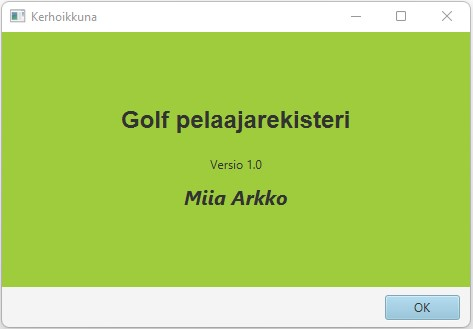
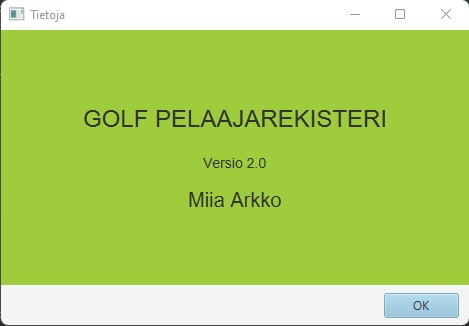
Kuvia

diff --git a/src/fxKerho/tietoja.css b/src/fxKerho/tietoja.css
@@ -1,0 +1,3 @@
+.vaaleaVihrea {
+	-fx-background-color: #9FCC3D;
+}

diff --git a/src/fxKerho/TietojaMain.java b/src/fxKerho/TietojaMain.java
@@ -1,0 +1,38 @@
+package fxKerho;
+
+import javafx.application.Application;
+import javafx.stage.Stage;
+import javafx.scene.Scene;
+import javafx.scene.layout.Pane;
+import javafx.fxml.FXMLLoader;
+
+
+/**
+ * @author miiaa
+ * @version 31.1.2023
+ *
+ */
+public class TietojaMain extends Application {
+    @Override
+    public void start(Stage primaryStage) {
+        try {
+            FXMLLoader ldr = new FXMLLoader(getClass().getResource("TietojaGUIView.fxml"));
+            final Pane root = ldr.load();
+            //final TietojaGUIController tietojaCtrl = (TietojaGUIController) ldr.getController();
+            Scene scene = new Scene(root);
+            scene.getStylesheets().add(getClass().getResource("tietoja.css").toExternalForm());
+            primaryStage.setScene(scene);
+            primaryStage.setTitle("Tietoja");
+            primaryStage.show();
+        } catch(Exception e) {
+            e.printStackTrace();
+        }
+    }
+
+    /**
+     * @param args Ei kaytossa
+     */
+    public static void main(String[] args) {
+        launch(args);
+    }
+}

diff --git a/src/fxKerho/TietojaGUIController.java b/src/fxKerho/TietojaGUIController.java
@@ -1,0 +1,10 @@
+package fxKerho;
+
+/**
+ * @author miiaa
+ * @version 31.1.2023
+ *
+ */
+public class TietojaGUIController {
+      // TODO
+}
